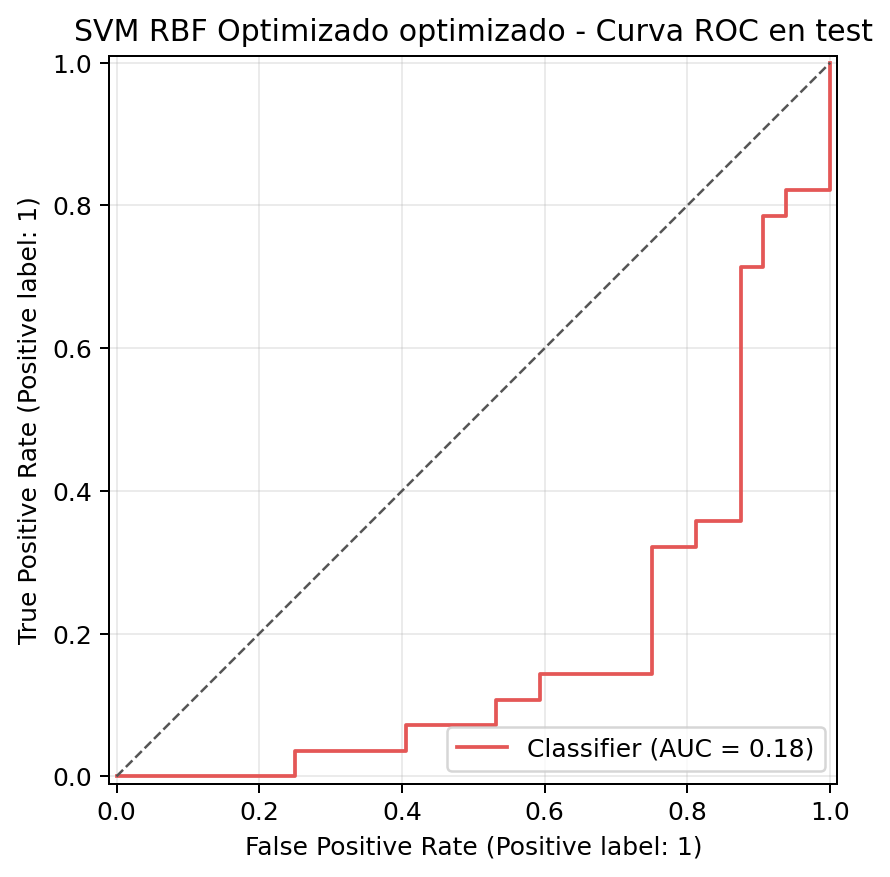
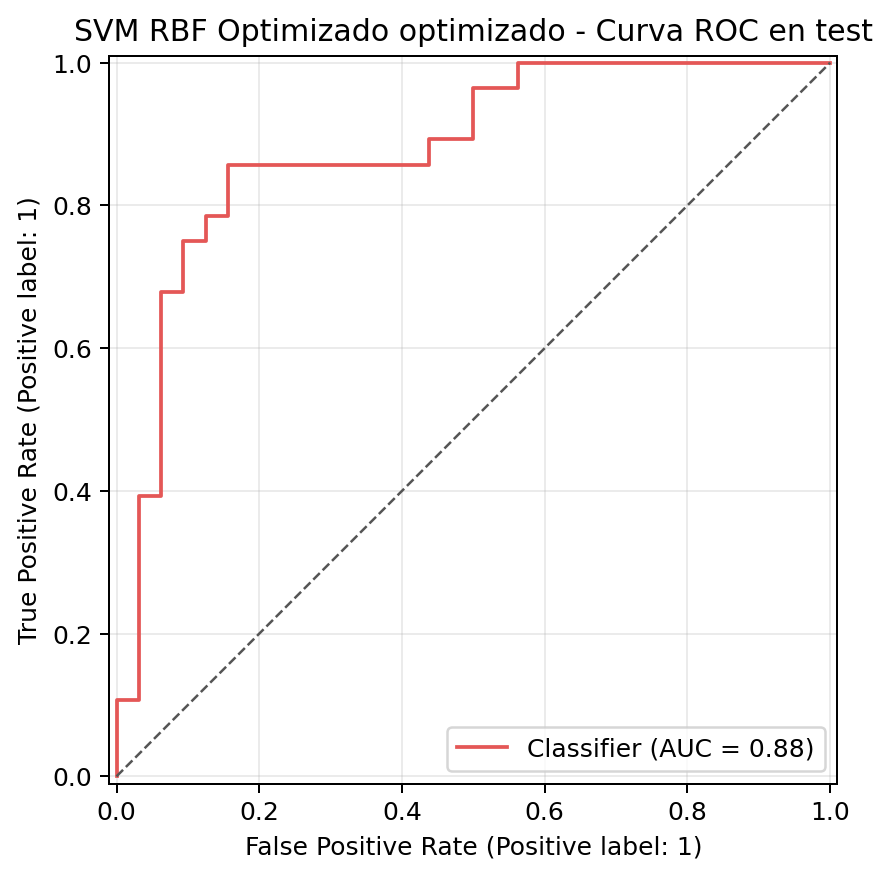
Refactor task 4 model optimization reports and metrics
- Updated reports for SVM and Logistic Regression to reflect new optimization strategy focusing on medical cost with FN=5 and FP=1.
- Adjusted model comparison metrics to prioritize medical cost while still considering recall and ROC-AUC.
- Revised feature importance calculations and visualizations to include new metrics.
- Enhanced confusion matrix and test metrics to provide clearer insights into model performance.
- Modified code to ensure consistent metric selection across model evaluations.

diff --git a/mundial_project/src/task4_common.py b/mundial_project/src/task4_common.py
@@ -17,6 +17,7 @@ import task3_common
 DEFAULT_OUTPUT_DIR = task3_common.PROJECT_ROOT / "outputs" / "task4"
 DEFAULT_REPORT_PATH = task3_common.PROJECT_ROOT / "reports" / "task4_optimizacion_parametros.md"
 PRIMARY_METRIC = "recall_condition_1"
+SELECTION_METRIC = "medical_cost"
 MODEL_SLUGS = ["logistic_regression", "svm", "knn"]
 MODEL_NAMES = {
     "logistic_regression": "Regresion Logistica",
@@ -68,8 +69,8 @@ def choose_best_index(cv_results: dict[str, Any]) -> int:
     results = pd.DataFrame(cv_results)
     ranked = results.sort_values(
         by=[
-            "mean_test_recall_condition_1",
             "mean_test_neg_medical_cost",
+            "mean_test_recall_condition_1",
             "mean_test_roc_auc",
         ],
         ascending=[False, False, False],
@@ -131,8 +132,8 @@ def tidy_grid_results(search: GridSearchCV) -> pd.DataFrame:
     tidy["mean_train_medical_cost"] = -tidy["mean_train_neg_medical_cost"]
     return tidy.sort_values(
         by=[
-            "mean_test_recall_condition_1",
             "mean_test_neg_medical_cost",
+            "mean_test_recall_condition_1",
             "mean_test_roc_auc",
         ],
         ascending=[False, False, False],
@@ -289,7 +290,7 @@ def write_model_report(
 
 ## Objetivo
 
-Este experimento optimiza hiperparametros para predecir `condition`, guiado por `recall_condition_1`. En el contexto medico del proyecto se prioriza detectar pacientes con `condition=1`, porque el falso negativo es el error mas costoso. El coste auxiliar mantiene FN={fn_cost:g} y FP={fp_cost:g}.
+Este experimento optimiza hiperparametros para predecir `condition`, guiado por el coste medico normalizado con FN={fn_cost:g} y FP={fp_cost:g}. En el contexto medico del proyecto se prioriza detectar pacientes con `condition=1`, pero se evita seleccionar configuraciones degeneradas que maximizan recall a costa de muchos falsos positivos o mala generalizacion.
 
 ## Mejor configuracion
 

diff --git a/mundial_project/src/task4_comparacion_optimizacion.py b/mundial_project/src/task4_comparacion_optimizacion.py
@@ -90,8 +90,8 @@ def build_comparison(task4_dir: Path, task3_dir: Path) -> pd.DataFrame:
     if comparison.empty:
         raise ValueError(f"No se encontraron resultados de Task 4 en {task4_dir}.")
     return comparison.sort_values(
-        by=["cv_recall_condition_1_mean", "cv_medical_cost_mean", "test_false_negatives"],
-        ascending=[False, True, True],
+        by=["cv_medical_cost_mean", "cv_recall_condition_1_mean", "cv_roc_auc_mean"],
+        ascending=[True, False, False],
     ).reset_index(drop=True)
 
 
@@ -186,7 +186,7 @@ def write_report(comparison: pd.DataFrame, feature_ranking: pd.DataFrame, report
 
 ## Estrategia
 
-Se optimizaron los tres modelos mas prometedores de Task 3: Regresion Logistica, SVM RBF y KNN. La busqueda se guio por `recall_condition_1`, porque el falso negativo es el error mas costoso en este contexto medico. Como desempate se uso menor coste medico normalizado y luego mayor ROC-AUC.
+Se optimizaron los tres modelos mas prometedores de Task 3: Regresion Logistica, SVM RBF y KNN. La busqueda se guio por coste medico normalizado con FN=5 y FP=1. Esta metrica sigue penalizando mas los falsos negativos, pero evita seleccionar configuraciones degeneradas que consiguen recall alto prediciendo demasiados positivos. Como desempate se uso mayor `recall_condition_1` y luego mayor ROC-AUC.
 
 ## Comparacion de modelos optimizados
 

diff --git a/mundial_project/outputs/task4/svm/reporte.md b/mundial_project/outputs/task4/svm/reporte.md
@@ -2,38 +2,38 @@
 
 ## Objetivo
 
-Este experimento optimiza hiperparametros para predecir `condition`, guiado por `recall_condition_1`. En el contexto medico del proyecto se prioriza detectar pacientes con `condition=1`, porque el falso negativo es el error mas costoso. El coste auxiliar mantiene FN=5 y FP=1.
+Este experimento optimiza hiperparametros para predecir `condition`, guiado por el coste medico normalizado con FN=5 y FP=1. En el contexto medico del proyecto se prioriza detectar pacientes con `condition=1`, pero se evita seleccionar configuraciones degeneradas que maximizan recall a costa de muchos falsos positivos o mala generalizacion.
 
 ## Mejor configuracion
 
 ```json
 {
-  "model__C": 0.1,
+  "model__C": 1.0,
   "model__class_weight": "balanced",
-  "model__gamma": 1.0
+  "model__gamma": "scale"
 }
 ```
 
 ## Validacion cruzada
 
-- Recall condition=1: 1.0000
-- Coste medico normalizado: 0.5401
-- ROC-AUC: 0.8463
+- Recall condition=1: 0.8337
+- Coste medico normalizado: 0.4601
+- ROC-AUC: 0.9124
 
 ## Test final reservado
 
-- Recall condition=1: 0.0000
-- Falsos negativos: 28
-- Falsos positivos: 0
-- Coste medico normalizado: 2.3333
-- ROC-AUC: 0.1842
+- Recall condition=1: 0.8571
+- Falsos negativos: 4
+- Falsos positivos: 8
+- Coste medico normalizado: 0.4667
+- ROC-AUC: 0.8795
 
 ## Variables influyentes
 
 La importancia se calculo con `permutation_importance` sobre el pipeline completo y usando recall como scoring. Las variables con mayor caida de recall al permutarse son:
 
-- `feature_1`: importancia media 0.0000
-- `feature_2`: importancia media 0.0000
-- `feature_3`: importancia media 0.0000
-- `feature_4`: importancia media 0.0000
-- `feature_5`: importancia media 0.0000
+- `feature_7`: importancia media 0.0548
+- `feature_8`: importancia media 0.0452
+- `feature_5`: importancia media 0.0381
+- `feature_12`: importancia media 0.0274
+- `feature_3`: importancia media 0.0250

diff --git a/mundial_project/reports/task4_optimizacion_parametros.md b/mundial_project/reports/task4_optimizacion_parametros.md
@@ -2,25 +2,25 @@
 
 ## Estrategia
 
-Se optimizaron los tres modelos mas prometedores de Task 3: Regresion Logistica, SVM RBF y KNN. La busqueda se guio por `recall_condition_1`, porque el falso negativo es el error mas costoso en este contexto medico. Como desempate se uso menor coste medico normalizado y luego mayor ROC-AUC.
+Se optimizaron los tres modelos mas prometedores de Task 3: Regresion Logistica, SVM RBF y KNN. La busqueda se guio por coste medico normalizado con FN=5 y FP=1. Esta metrica sigue penalizando mas los falsos negativos, pero evita seleccionar configuraciones degeneradas que consiguen recall alto prediciendo demasiados positivos. Como desempate se uso mayor `recall_condition_1` y luego mayor ROC-AUC.
 
 ## Comparacion de modelos optimizados
 
 | modelo | cv_recall_condition_1_mean | cv_medical_cost_mean | cv_roc_auc_mean | test_recall_condition_1 | test_false_negatives | test_false_positives | test_medical_cost | delta_cv_recall | delta_cv_medical_cost |
 | --- | --- | --- | --- | --- | --- | --- | --- | --- | --- |
-| SVM RBF | 1.0000 | 0.5401 | 0.8463 | 0.0000 | 28.0000 | 0.0000 | 2.3333 | 0.1934 | 0.0230 |
 | Regresion Logistica | 0.8480 | 0.4217 | 0.9224 | 0.8214 | 5.0000 | 8.0000 | 0.5500 | 0.0344 | -0.0718 |
+| SVM RBF | 0.8337 | 0.4601 | 0.9124 | 0.8571 | 4.0000 | 8.0000 | 0.4667 | 0.0270 | -0.0569 |
 | KNN | 0.7955 | 0.5372 | 0.9097 | 0.8214 | 5.0000 | 5.0000 | 0.5000 | 0.0102 | -0.0353 |
 
 ## Mejores configuraciones
 
-- **SVM RBF**: `model__C`=0.1, `model__class_weight`=balanced, `model__gamma`=1.0
 - **Regresion Logistica**: `model__C`=1.0, `model__class_weight`=balanced, `model__penalty`=l1, `model__solver`=liblinear
+- **SVM RBF**: `model__C`=1.0, `model__class_weight`=balanced, `model__gamma`=scale
 - **KNN**: `model__n_neighbors`=7, `model__p`=1, `model__weights`=distance
 
 ## Lectura medica
 
-El modelo recomendado por validacion cruzada es **SVM RBF**, con recall medio 1.0000 y coste medico medio 0.5401. En test final, el menor coste medico lo obtiene **KNN**, con 5 falsos negativos y 5 falsos positivos.
+El modelo recomendado por validacion cruzada es **Regresion Logistica**, con recall medio 0.8480 y coste medico medio 0.4217. En test final, el menor coste medico lo obtiene **SVM RBF**, con 4 falsos negativos y 8 falsos positivos.
 
 La seleccion principal se mantiene en validacion cruzada, no en accuracy ni en una sola particion de test. Un aumento de falsos positivos puede aceptarse si reduce falsos negativos, pero debe revisarse junto al coste medico.
 
@@ -28,8 +28,8 @@ La seleccion principal se mantiene en validacion cruzada, no en accuracy ni en u
 
 La influencia se calculo con `permutation_importance` usando recall como scoring sobre el pipeline completo. Las variables con mayor influencia global fueron:
 
-- `feature_8`: importancia normalizada media 0.6667
-- `feature_12`: importancia normalizada media 0.1893
-- `feature_5`: importancia normalizada media 0.0988
-- `feature_4`: importancia normalizada media 0.0782
-- `feature_2`: importancia normalizada media 0.0658
+- `feature_8`: importancia normalizada media 0.9420
+- `feature_7`: importancia normalizada media 0.3786
+- `feature_12`: importancia normalizada media 0.3560
+- `feature_5`: importancia normalizada media 0.3306
+- `feature_4`: importancia normalizada media 0.2159

diff --git a/mundial_project/outputs/task4/knn/reporte.md b/mundial_project/outputs/task4/knn/reporte.md
@@ -2,7 +2,7 @@
 
 ## Objetivo
 
-Este experimento optimiza hiperparametros para predecir `condition`, guiado por `recall_condition_1`. En el contexto medico del proyecto se prioriza detectar pacientes con `condition=1`, porque el falso negativo es el error mas costoso. El coste auxiliar mantiene FN=5 y FP=1.
+Este experimento optimiza hiperparametros para predecir `condition`, guiado por el coste medico normalizado con FN=5 y FP=1. En el contexto medico del proyecto se prioriza detectar pacientes con `condition=1`, pero se evita seleccionar configuraciones degeneradas que maximizan recall a costa de muchos falsos positivos o mala generalizacion.
 
 ## Mejor configuracion
 

diff --git a/mundial_project/outputs/task4/logistic_regression/reporte.md b/mundial_project/outputs/task4/logistic_regression/reporte.md
@@ -2,7 +2,7 @@
 
 ## Objetivo
 
-Este experimento optimiza hiperparametros para predecir `condition`, guiado por `recall_condition_1`. En el contexto medico del proyecto se prioriza detectar pacientes con `condition=1`, porque el falso negativo es el error mas costoso. El coste auxiliar mantiene FN=5 y FP=1.
+Este experimento optimiza hiperparametros para predecir `condition`, guiado por el coste medico normalizado con FN=5 y FP=1. En el contexto medico del proyecto se prioriza detectar pacientes con `condition=1`, pero se evita seleccionar configuraciones degeneradas que maximizan recall a costa de muchos falsos positivos o mala generalizacion.
 
 ## Mejor configuracion
 